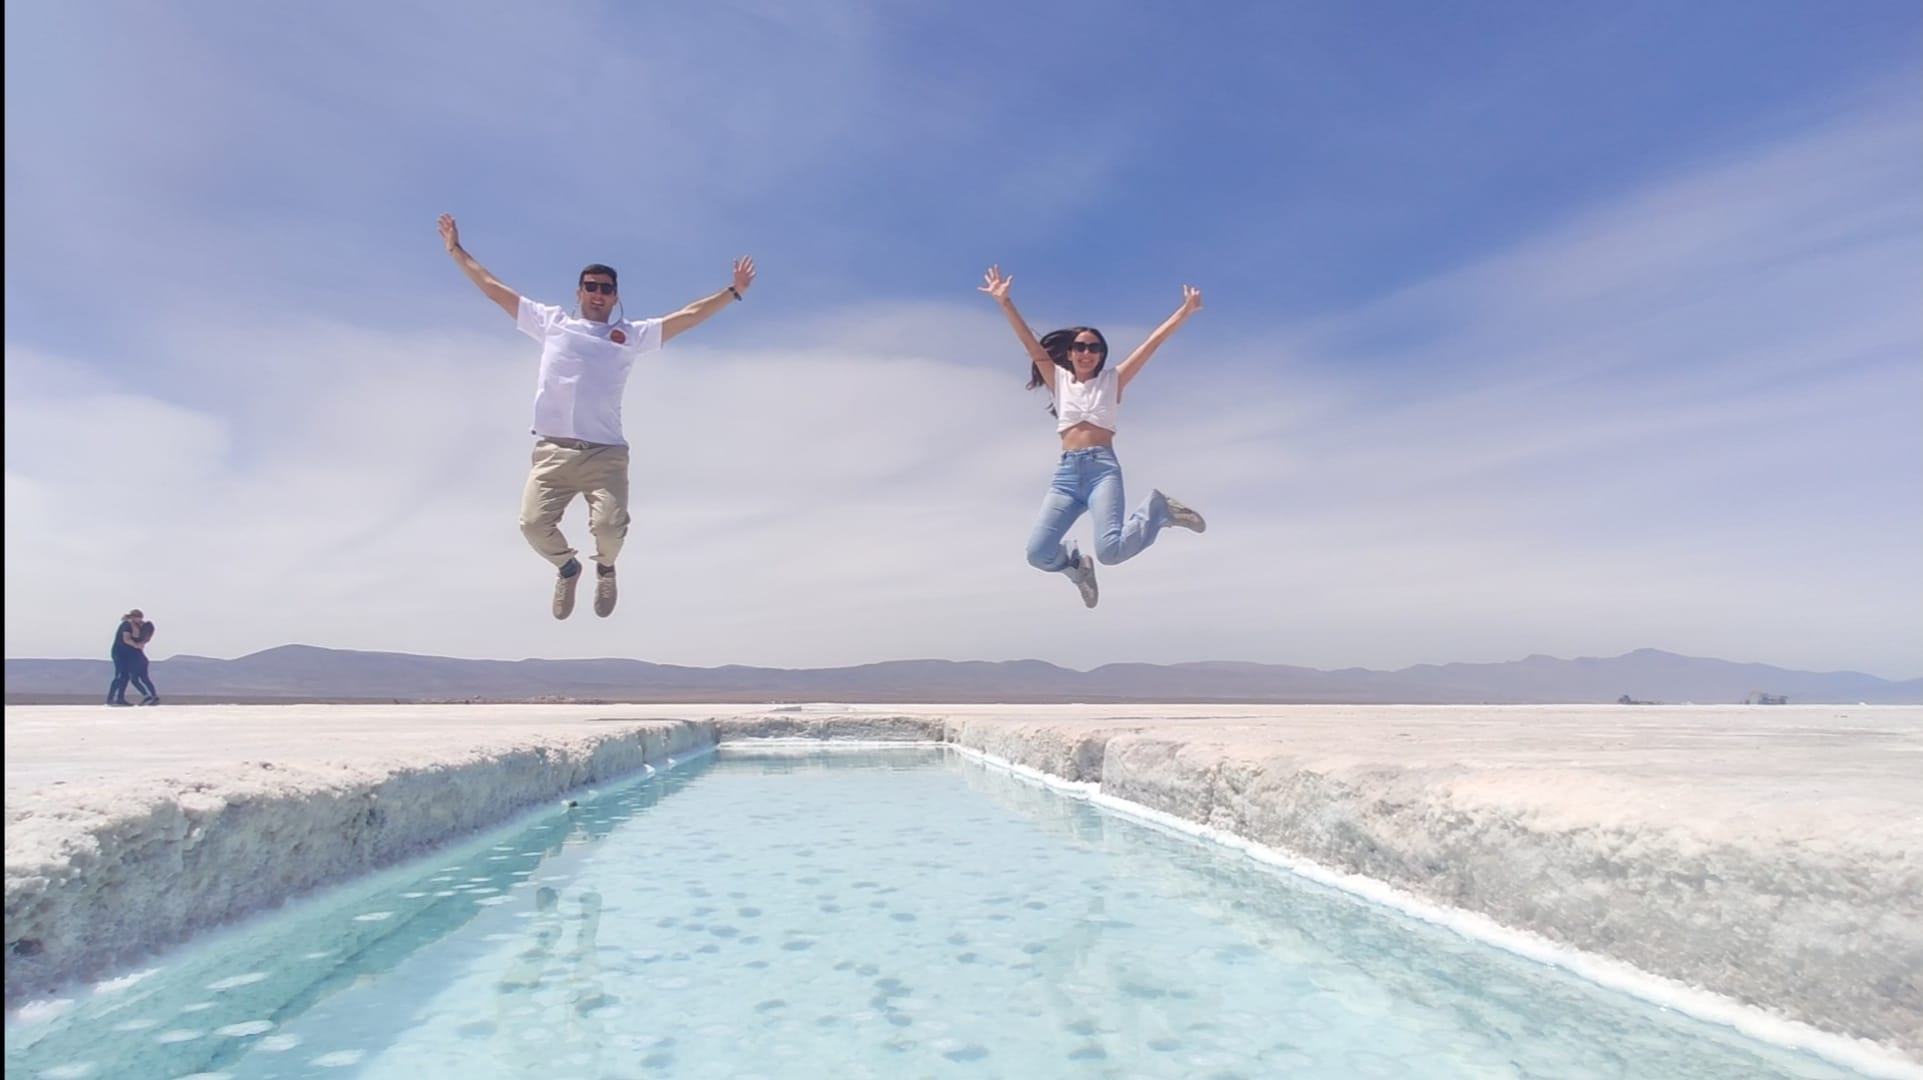
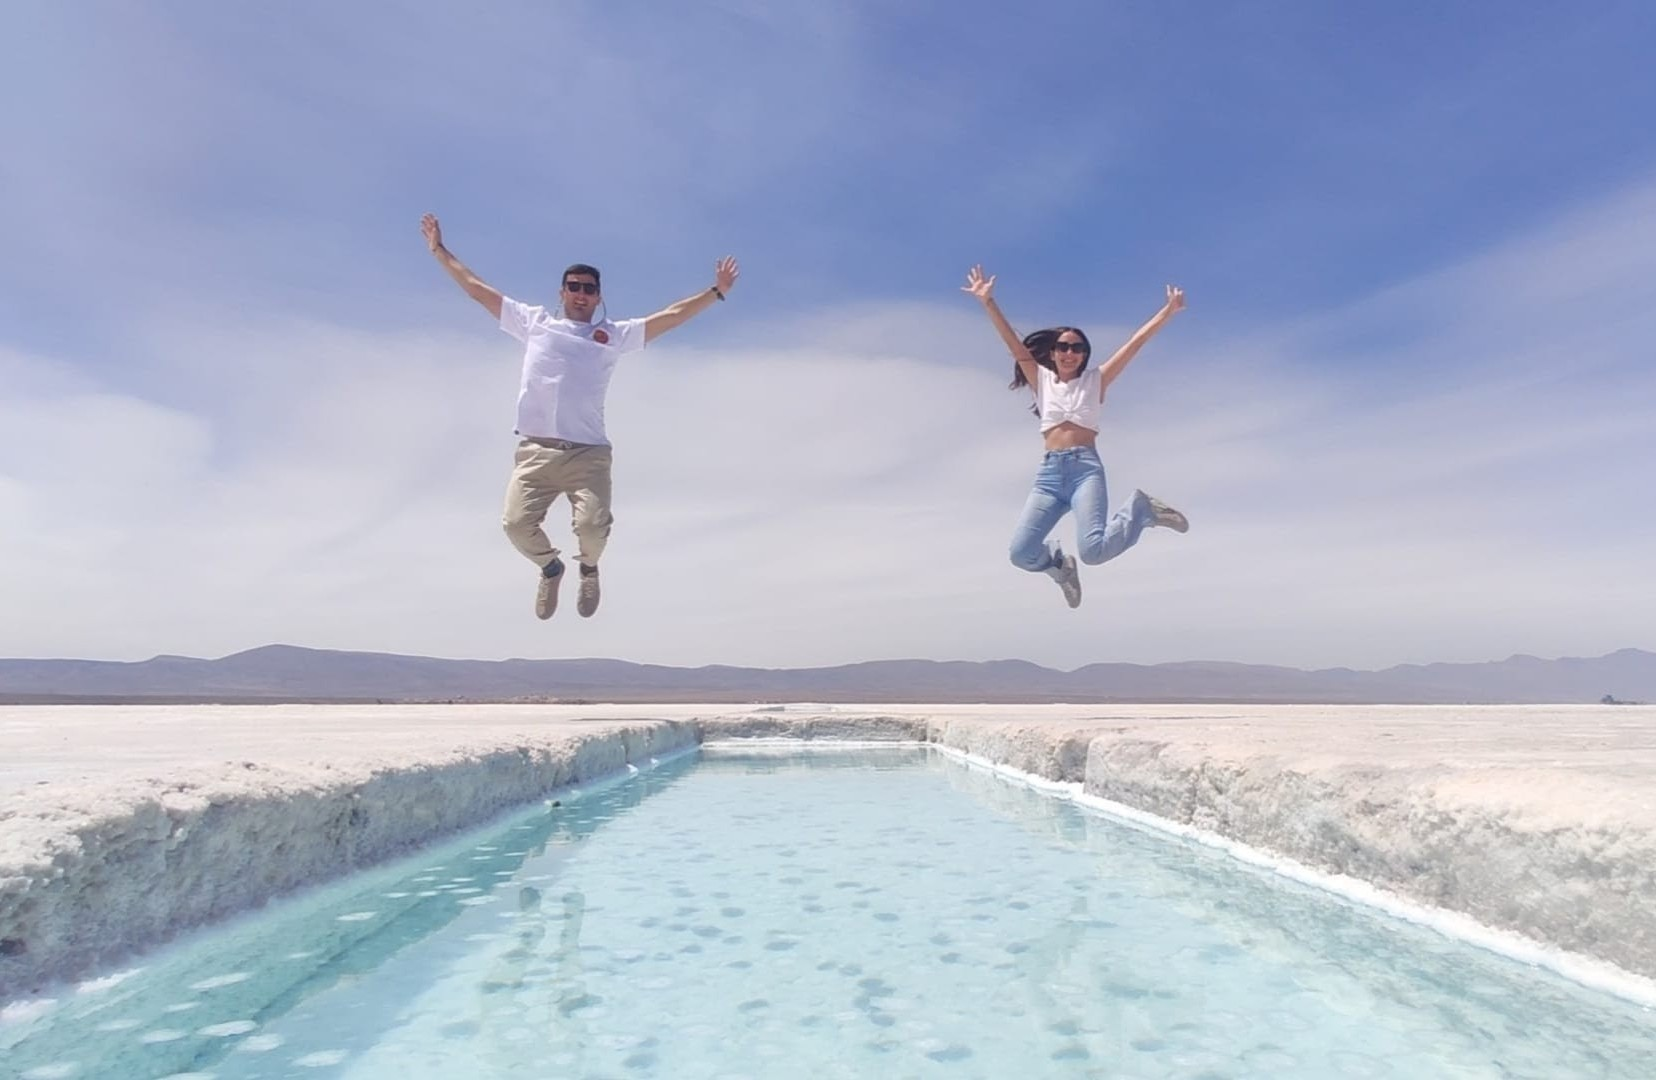
Cambio foto de Argentina

diff --git a/index.html b/index.html
@@ -614,8 +614,8 @@
             grabCursor: true,
             centeredSlides: true,
             slidesPerView: "auto",
-            loop: "true",
-            autoHeight: "true",
+            loop: true,
+            autoHeight: true,
             coverflowEffect: {
                 rotate: 50,
                 stretch: 0,
